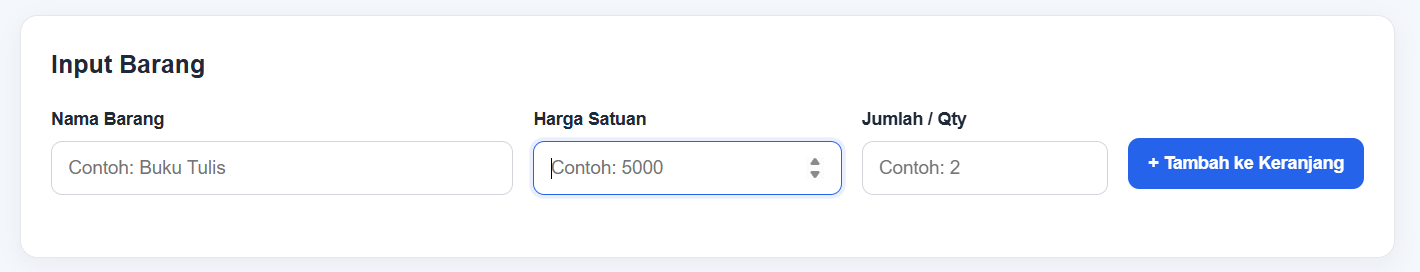
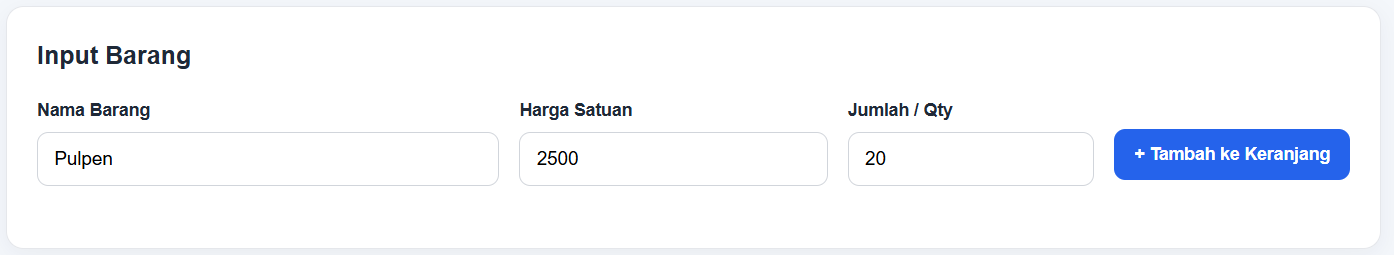
update readme & ss

diff --git a/dikihurrisyail_124140088_pertemuan1/README.md b/dikihurrisyail_124140088_pertemuan1/README.md
@@ -70,7 +70,7 @@ diki_hurrisyail_124140088_pertemuan1/
 | Tampilan                  | Gambar                                       |
 | ------------------------- | -------------------------------------------- |
 | Form input utama          | ![Form Input](ss/form.png)           |
-| Validasi error muncul     | ![Validasi Error](ss/validasi2.png)      |
+| Validasi error muncul     | ![Validasi Error](ss/validasi.png)      |
 | Hasil perhitungan & tabel | ![Hasil Transaksi](ss/hasil.png) |
 
 ## Penjelasan Teknis Singkat
